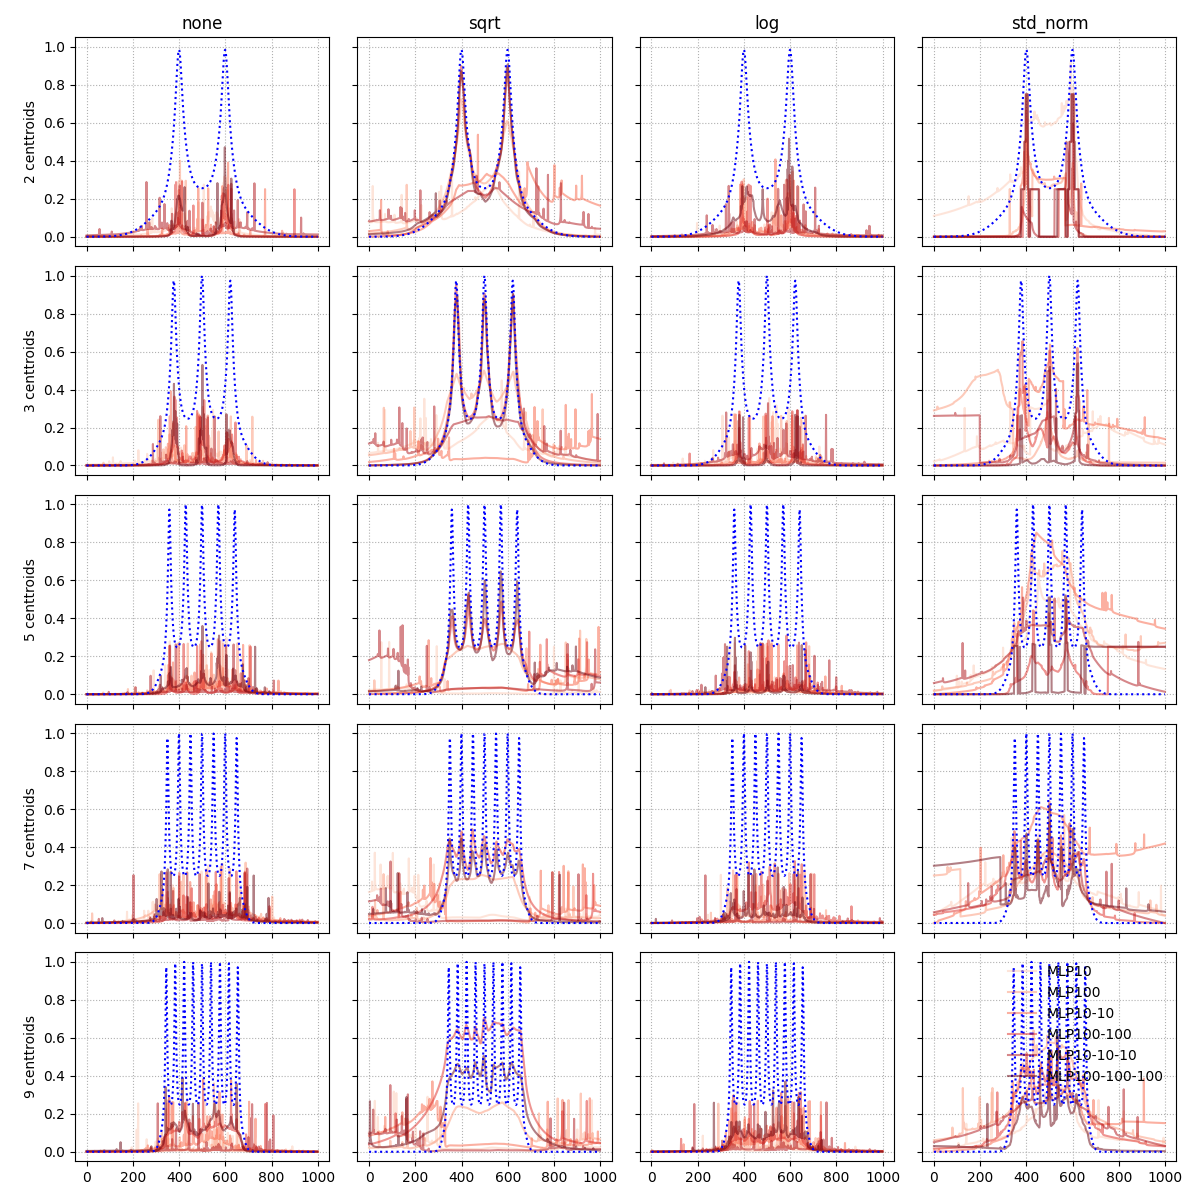
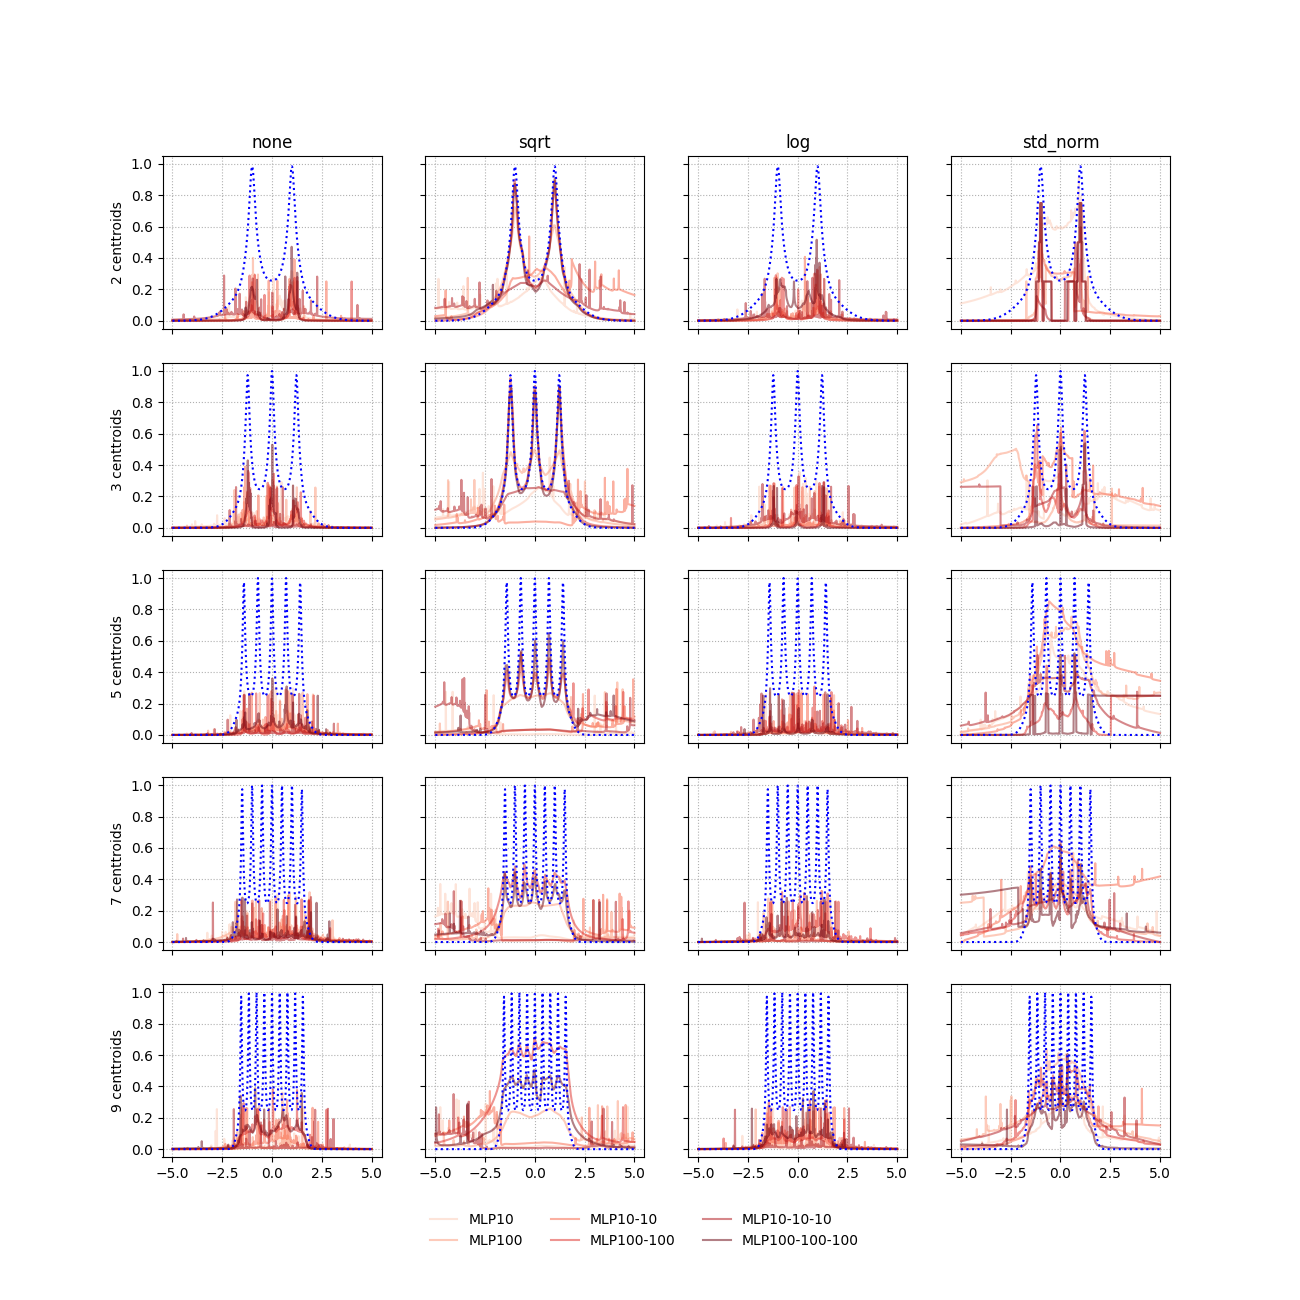
fix legend

diff --git a/E1_est_plot.py b/E1_est_plot.py
@@ -68,7 +68,7 @@ print(res_pred.shape) # factors x centroids x cq x reg x transforms
 cq_id=2
 cols=plt.cm.Reds(np.linspace(0.2,1,len(base_regressors)))
 
-fig, ax = plt.subplots(5, 4, figsize=(12,12), sharex=True, sharey=True)
+fig, ax = plt.subplots(5, 4, figsize=(13,13), sharex=True, sharey=True)
 
 for cent_id, cent in enumerate(n_centroids):
     for tr_id, tr in enumerate(transforms):
@@ -80,13 +80,13 @@ for cent_id, cent in enumerate(n_centroids):
         
         # for cq_id, cq in enumerate(curve_quants):
         for r_id, r in enumerate(base_regressors):
-            ax[cent_id, tr_id].plot(res_pred[cent_id, cq_id, r_id, tr_id], label='%s' % (r), alpha=0.5, c=cols[r_id])
+            ax[cent_id, tr_id].plot(test_space, res_pred[cent_id, cq_id, r_id, tr_id], label='%s' % (r), alpha=0.5, c=cols[r_id])
         
         ax[cent_id, tr_id].grid(ls=':')
-        ax[cent_id, tr_id].plot(np.mean(originals[:, cent_id], axis=0), color='blue', ls=':')
+        ax[cent_id, tr_id].plot(test_space, np.mean(originals[:, cent_id], axis=0), color='blue', ls=':')
 
 
-plt.legend(ncol=1, frameon=False)
+plt.legend(loc='lower center', bbox_to_anchor=(-1.4, -0.6), ncol=3, frameon=False)
 plt.tight_layout()
 plt.savefig('figures/E1_est.png')
                 
